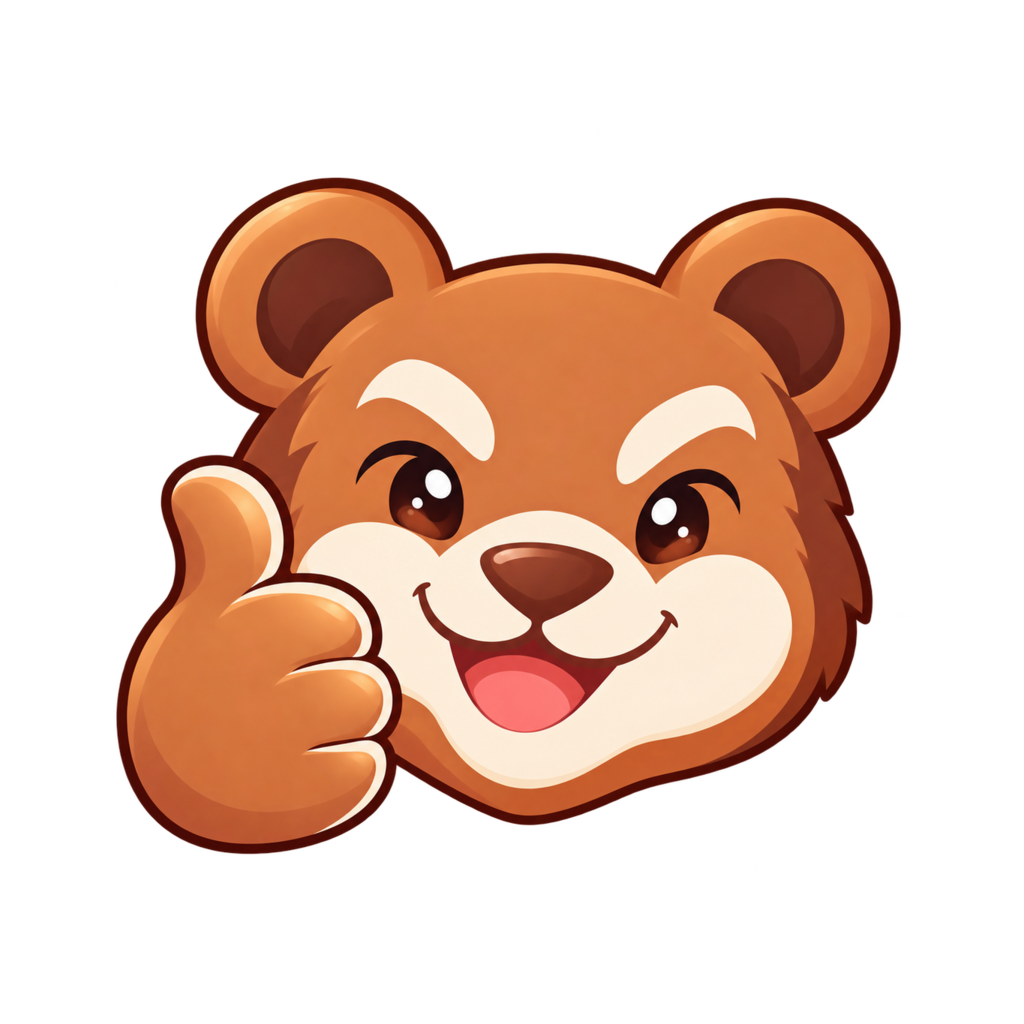
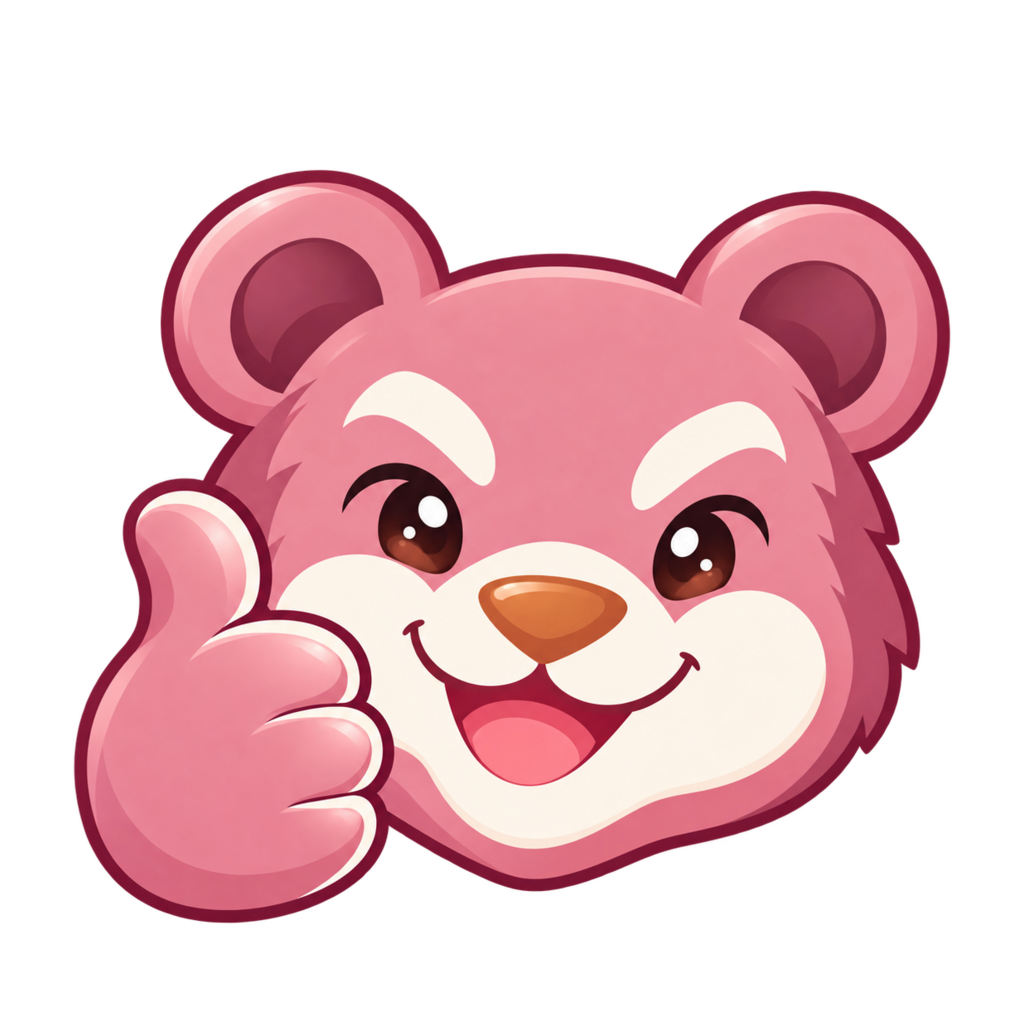
Swap record-celebration bear mascot for an on-palette version
Follow-up to item 38: the original bear art was tan/brown, off REP's
rose-plum palette (flagged as an open question in the design mockup).
User supplied a re-colored pink/rose version same day; swapped in.

Claude-Session: https://claude.ai/code/session_017dLHdVzTcxkQMDDNGkz9gC

diff --git a/docs/backlog-archive.md b/docs/backlog-archive.md
@@ -76,7 +76,7 @@ on something already shipped. New entries get appended here when an item is remo
 - First-run guidance on the Log screen for a brand-new account (item 26, 2026-09-24): `WorkoutLogger.vue`'s pre-start screen now branches on catalog state before showing the "Start workout" form — zero active exercises shows a blocking card ("Add an exercise before logging a workout") with a "Go to Exercises" button instead of the form; exercises present but zero active templates shows a non-blocking inline hint above the form explaining templates are optional, with an inline "create one" link to Templates. Both affordances emit a `navigate` event (new, same emit-and-let-the-parent-switch-`view` pattern `AppMenu.vue` already uses) which `App.vue` wires to `view = $event`, so `WorkoutLogger.vue` doesn't own tab state itself. No store/schema changes; no existing e2e spec's fixture state hits the zero-exercise branch (the shared test account has exercises seeded), so none needed updates. Verified via `npm run build` and a full `npm run test:e2e` run (17/17, one unrelated pre-existing flake in `pre-fill.spec.ts`'s parallel-logging case reproduced and passed clean on rerun).
 - Warm up the first-run Log-screen guidance with a designed welcome card and menu coachmark (item 27, 2026-09-24): replaced item 26's plain notice/hint copy in `WorkoutLogger.vue` with the user-approved design pass. Zero-exercise state is now a hero card (circular `icon-512.png` mascot, "Welcome to REP" heading, one-sentence description, "Add your first exercise" button) plus a dashed-arrow SVG coachmark labeled "More lives in the menu" pointing at `App.vue`'s real hamburger button; the progress strip is hidden on this specific state (`workoutsThisWeek === 0` there is guaranteed) but still shows once at least one exercise exists. Zero-template state is now a small card with a 40px mascot, one sentence, and an inline "Create a template" link, sitting above the Start-workout form as before. The coachmark's path is computed at render time from `getBoundingClientRect()` on the welcome card and `document.querySelector('.menu-button')` (re-measured on window resize) rather than hardcoded from the mockup's fixed 390px frame — confirmed necessary during visual verification, since the real header sits lower than the mockup assumed whenever `AuthGate`'s passkey-registration banner is showing above it; hardcoded coordinates would have pointed the arrow at the wrong spot in exactly that case. No store/schema changes. Verified with a scripted, non-committed Playwright check (wiped the test account to a genuine zero-exercise state via `npm run wipe:account`, screenshotted both the welcome card and, after inserting one exercise directly, the template hint) confirming both match the approved mockups, plus `npm run build`, `vue-tsc --noEmit`, and a full `npm run test:e2e` run (17/17) after restoring the test account to empty.
 - Setup notes and rest timer on the exercise create form (item 22, 2026-09-24): `ExerciseList.vue`'s create form gained the same setup-notes textarea and rest-timer-seconds input the per-row editors already use, so adding an exercise with a rest timer no longer needs the create-then-scroll-then-edit-twice round trip; `useExercisesStore`'s `createExercise` (`src/stores/exercises.ts`) takes two new optional params (`setupNotes`, `restSeconds`, both defaulting to `null`) and inserts them alongside `name`/`category`. Per-row editors are unchanged and still the only way to edit an existing exercise's notes/rest timer afterward. Verified via a new `e2e/exercise-create-full.spec.ts` (create with name+notes+rest in one submit, confirms the row shows both values and its per-row buttons read "Edit" not "Add") plus a full suite run (18/18, one unrelated pre-existing flake in `templates.spec.ts` reproduced and passed clean on rerun), `npm run typecheck`, and `npm run build`.
-- Record celebration: full-screen takeover replacing the PR toast (item 38, 2026-09-24): built to the approved design mockup (`https://claude.ai/artifact/Cr63WNz2AZF4pixzBE1CM5`), swapping item 4's auto-dismissing bottom `.record-toast` for a real "good job" moment — new `src/components/RecordCelebration.vue`, a full-screen overlay (confetti, a rotating ray burst, a bounce-in mascot, and a stat card showing the exercise, the new weight × reps, and the delta over the prior best) shown whenever `workout.newRecord` (`src/stores/workouts.ts`) fires. Deviates from the mockup's auto-fade timer on the user's explicit call: it now requires an explicit dismiss (a "Nice!" button, Escape, or a tap anywhere on the overlay — the mockup's "tap to dismiss sooner" affordance, kept, but without the forced fade), so it blocks the logging form underneath until acknowledged. `workouts.ts`'s `newRecord`/`checkForRecord` now carry the full set (reps/weight/unit/previous-best-volume), not just a volume number, so the screen can show what was actually lifted. New `src/lib/celebration.ts` holds `pickCelebration`, a pure random pick (same separation pattern as `volume.ts`/`progress.ts`) over a seeded pool of two mascot-image + phrase pairs (`public/celebration-bunny.png`, on-palette; `public/celebration-bear.png`, tan/brown — off-palette, an open question the mockup itself flagged, shipped anyway since it was seeded as-is; swap or drop it if the user objects). Rewrote `e2e/pr-toast.spec.ts` for the new screen (content, manual dismiss, tap-to-dismiss, no-retrigger-on-a-lighter-set) and added a shared `e2e/fixtures/celebration.ts#dismissCelebrationIfShown` helper, called from every other spec that logs a first-ever set for a brand-new exercise (now a guaranteed record) before continuing past it — the overlay's higher z-index (60, above `RestTimer.vue`'s 50) means an undismissed screen blocks any click on the form or a rest screen underneath. Verified via `npm run build`, `npm run typecheck`, a full `npm run test:e2e` run (26/26, one unrelated pre-existing flake in `templates.spec.ts` reproduced and passed clean on rerun), and a scripted, non-committed Playwright screenshot against the real dev build confirming the mascot art, confetti, and stat card render as designed.
+- Record celebration: full-screen takeover replacing the PR toast (item 38, 2026-09-24): built to the approved design mockup (`https://claude.ai/artifact/Cr63WNz2AZF4pixzBE1CM5`), swapping item 4's auto-dismissing bottom `.record-toast` for a real "good job" moment — new `src/components/RecordCelebration.vue`, a full-screen overlay (confetti, a rotating ray burst, a bounce-in mascot, and a stat card showing the exercise, the new weight × reps, and the delta over the prior best) shown whenever `workout.newRecord` (`src/stores/workouts.ts`) fires. Deviates from the mockup's auto-fade timer on the user's explicit call: it now requires an explicit dismiss (a "Nice!" button, Escape, or a tap anywhere on the overlay — the mockup's "tap to dismiss sooner" affordance, kept, but without the forced fade), so it blocks the logging form underneath until acknowledged. `workouts.ts`'s `newRecord`/`checkForRecord` now carry the full set (reps/weight/unit/previous-best-volume), not just a volume number, so the screen can show what was actually lifted. New `src/lib/celebration.ts` holds `pickCelebration`, a pure random pick (same separation pattern as `volume.ts`/`progress.ts`) over a seeded pool of two mascot-image + phrase pairs (`public/celebration-bunny.png` and `public/celebration-bear.png`, both on-palette pink/rose art — the mockup's original bear was tan/brown and off-palette, flagged as an open question there; user supplied a re-colored on-palette bear same day, swapped in). Rewrote `e2e/pr-toast.spec.ts` for the new screen (content, manual dismiss, tap-to-dismiss, no-retrigger-on-a-lighter-set) and added a shared `e2e/fixtures/celebration.ts#dismissCelebrationIfShown` helper, called from every other spec that logs a first-ever set for a brand-new exercise (now a guaranteed record) before continuing past it — the overlay's higher z-index (60, above `RestTimer.vue`'s 50) means an undismissed screen blocks any click on the form or a rest screen underneath. Verified via `npm run build`, `npm run typecheck`, a full `npm run test:e2e` run (26/26, one unrelated pre-existing flake in `templates.spec.ts` reproduced and passed clean on rerun), and a scripted, non-committed Playwright screenshot against the real dev build confirming the mascot art, confetti, and stat card render as designed.
 - In-app rest timer screen (item 28, 2026-09-24): built to the approved design mockup (`https://claude.ai/artifact/5GzCT8Wb78Uzn4skZ8atAn`) — a new `src/components/RestTimer.vue`, a full-screen overlay with the resting-bunny mascot (the design's uploaded asset, pulled down to `public/rest-bunny.png`, true alpha transparency) breathing via a 4s CSS scale/translateY loop, a live countdown computed off a fixed end time rather than decremented per tick (so interval throttling can't make it drift slow), a progress bar draining from full to empty, and a "Skip Rest" button. Colors are the existing `--bg`/`--surface`/`--accent`/etc. tokens from `src/style.css`, which already matched the mockup's hex values exactly. Item 29 (rotating encouragement copy) stays open, deliberately not bundled in. Verified via a new `e2e/rest-timer-screen.spec.ts` (screen appears with the right countdown/context/skip button, skip dismisses it without touching the logged set, and a 1-second timer auto-dismisses on its own) plus a full suite run, `npm run typecheck`, and `npm run build`; also confirmed visually via a scripted Playwright screenshot against the real dev build (not committed) matching the approved mockup. See the follow-up fix below for the push-notification interaction — the version that shipped here got it wrong. Documented in `docs/architecture.md#push-notifications`.
 - Rotating words-of-encouragement copy on the rest timer screen (item 29, 2026-09-26): `RestTimer.vue` now picks one line at random from a small hand-written array (including the original "Nice work — take a breather") in its own `setup()`, so a fresh phrase shows each time `WorkoutLogger.vue`'s `v-if="activeRest"` remounts the component for a new rest period, rather than re-rolling mid-rest on a timer. Updated `e2e/rest-timer-screen.spec.ts`'s two hardcoded-text assertions to target `.rest-headline` instead, since the exact copy is no longer fixed. Verified via a full suite run (25/25), `npm run typecheck`, and `npm run build`.
 - Fix rest timer push notification going silent when backgrounded (item 28 follow-up, 2026-09-24): the version above decided the in-app screen vs. the push once, at the moment `addSet` landed, based on `document.hidden` — but logging a set is itself always done in the foreground, so that check always picked the in-app screen and never sent the push at all. Reported by the user after real-device testing: locking the phone or switching apps during the rest period got nothing — no push, no vibration — because `RestTimer.vue`'s own `setInterval` also gets suspended once backgrounded, so neither path ever fired. Fixed by moving the decision from a one-time check to a `visibilitychange` listener (`handleRestVisibilityChange` in `WorkoutLogger.vue`) that stays registered for the component's lifetime and fires the push the first time the tab actually goes hidden while a rest period is active, sending however many seconds are genuinely left (computed from a shared `endsAt` timestamp, now passed into `RestTimer.vue` as a prop instead of it computing its own) rather than the original full duration. A `restPushSent` flag keyed per rest period stops a second background/foreground toggle from sending it twice. Staying foregrounded the whole rest period is unaffected — still just the in-app screen, no push, since the on-screen countdown hitting zero (with its own vibration) already is the alert in that case. No test added for the actual push firing on backgrounding — same as item 15's original delivery path, that needs a real device and isn't something Playwright can exercise headlessly without faking the browser Push API, which the project avoids; re-verification of this specific fix is a new `[human]` sub-item under item 15's device-testing checklist in `docs/backlog.md`. Verified via a full `npm run test:e2e` run (20/20), `npm run typecheck`, and `npm run build`.
